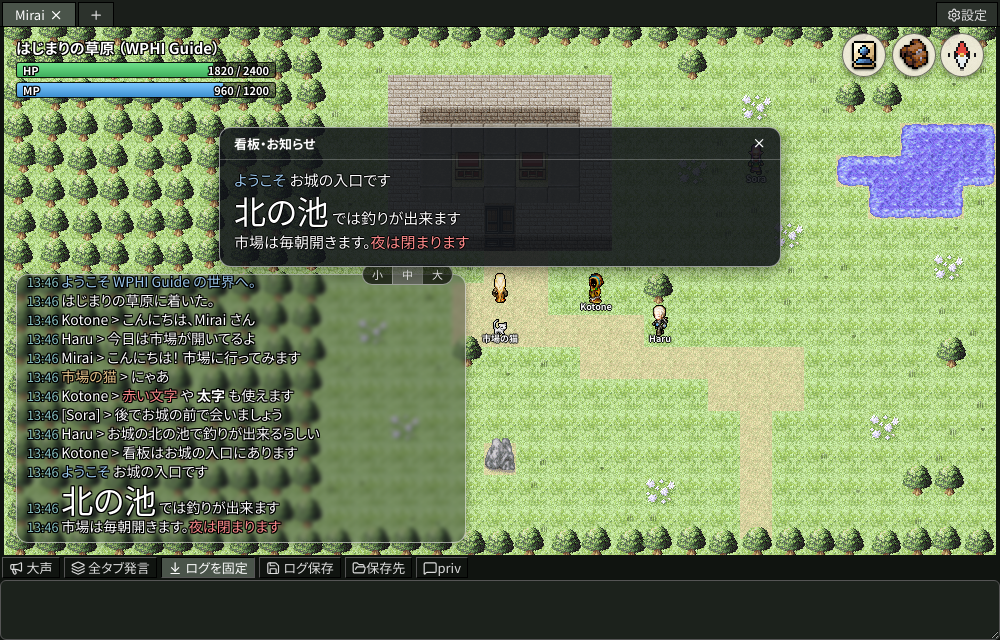
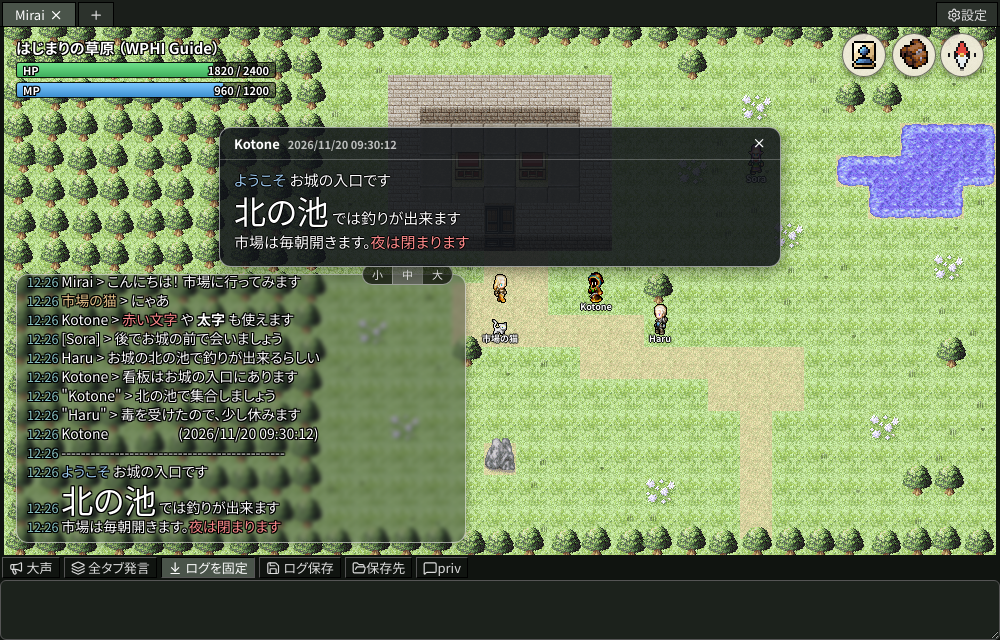
WPHI のガイドの看板の札に、書いた人と日時の見出しを書き、画像を撮り直す
Claude-Session: https://claude.ai/code/session_016QXkCL5vgFqD7BvPPeziA9

diff --git a/wphi/guide/index.html b/wphi/guide/index.html
@@ -249,11 +249,12 @@ Shift+Enter で改行し、Ctrl+Enter でパーティに発言します。
 <h2 id="board">9. 看板</h2>
 <p>
 看板の前で <kbd>A</kbd> を押すと看板を読みます。<br>
-読んだ本文はログに流すのに加えて、地図の上に札として出します。
+読んだ本文はログに流すのに加えて、地図の上に札として出します。<br>
+札の見出しには、その看板を書いた人と書いた日時を出します。
 </p>
 <figure>
-  <img src="images/sign.png" alt="地図の上に出た看板の札。色と大きさの付いた本文" width="1000" height="640" loading="lazy">
-  <figcaption>看板の札。本文の色と大きさのタグも反映します</figcaption>
+  <img src="images/sign.png" alt="地図の上に出た看板の札。見出しに書いた Kotone と日時、色と大きさの付いた本文" width="1000" height="640" loading="lazy">
+  <figcaption>看板の札。見出しは書いた人と日時で、本文の色と大きさのタグも反映します</figcaption>
 </figure>
 <p>札は右上の ×、Esc、歩き出すと閉じます。</p>
 <p>
